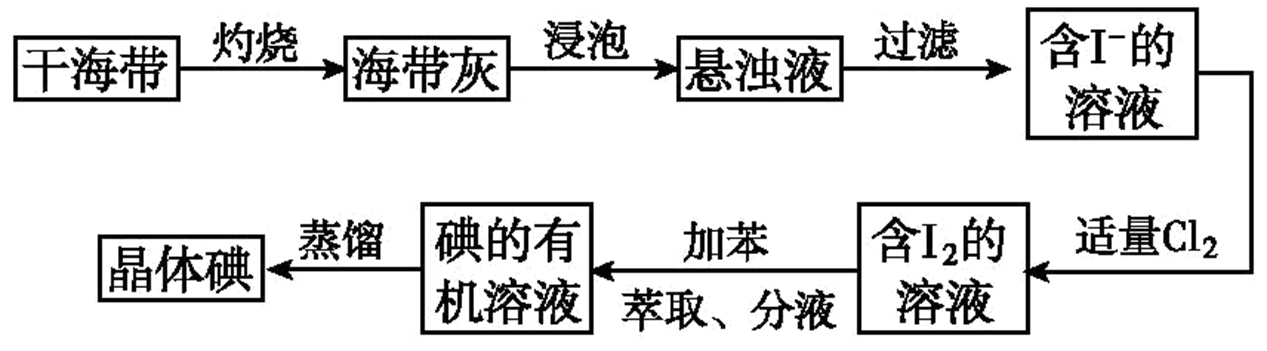
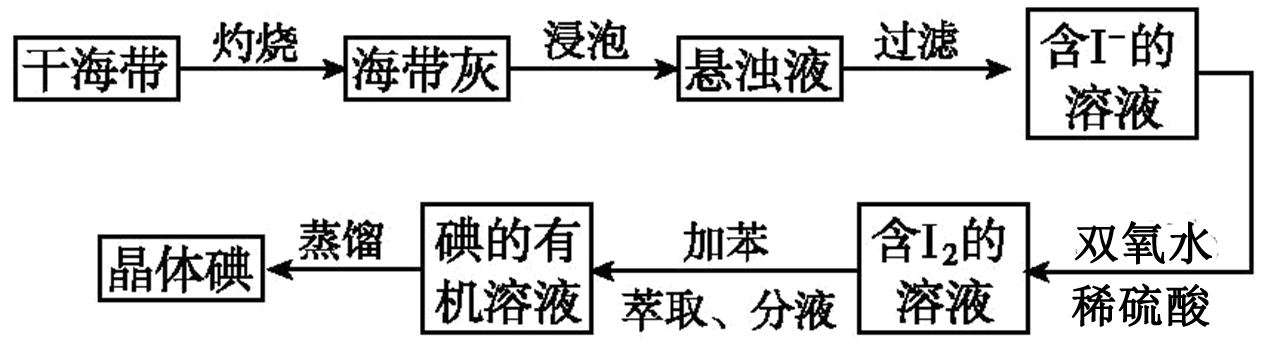
更新、勘误
新增实验“干燥”条目；对海水提碘勘误补充

Changed region(s): [[0.8311, 0.5983, 0.985, 0.7692], [0.8311, 0.7977, 0.9542, 0.9402]]

diff --git a/07 化学实验/01 实验仪器.md b/07 化学实验/01 实验仪器.md
@@ -88,4 +88,21 @@ description: "介绍化学实验中的加热仪器如酒精灯、石棉网，以
 |   图片   | <img alt="烧杯" src="./images/7.7.png"/> | <img alt="锥形瓶" src="./images/7.8.png"/> | <img alt="圆底烧瓶" src="./images/7.9.png"/> | <img alt="蒸馏烧瓶" src="./images/7.10.png"/> | <img alt="三颈烧瓶" src="./images/7.11.png"/> |
 |   特点   |                   敞口                   |                  管口较小                  |                   有支管口                   |                    “三颈”                     |                   管口较小                    |
 
-注意：加热时需要垫石棉网，液体体积范围为容积的 $[\frac{1}{3},\frac{2}{3}]$
+注意：加热时需要垫石棉/陶土网，液体体积范围为容积的 $[\frac{1}{3},\frac{2}{3}]$
+
+## 干燥用仪器（附干燥剂）
+**干燥的目的：制备纯净干燥产物；提供无水环境，避免反应物/生成物/催化剂反应（如水解），影响实验**
+| 相关仪器 | 适用干燥剂|注意事项|
+|-----|-----|-----|
+| **球形干燥管**| 无水氯化钙（固体颗粒）、碱石灰（固体颗粒）、硅胶、P₂O₅ | 干燥剂应为颗粒状，避免使用粉末 |
+| **U型干燥管**| 无水氯化钙、碱石灰等固体干燥剂 | 
+| **洗气瓶** | 浓硫酸| 	气体“长管进、短管出”
+
+| 干燥剂             | 适用气体（举例）                        | 不适用气体（举例）                | 备注                     |
+|--------------------|---------------------------------------|---------------------------------|--------------------------|
+| **浓硫酸**         | H₂、O₂、CO₂、Cl₂、SO₂（酸性/中性气体）  | NH₃、H₂S、HI、HBr（碱性/还原性） | 强氧化性、酸性            |
+| **无水氯化钙**     | 多数气体（H₂、O₂、CO₂、Cl₂等）          | NH₃（会形成配合物）               | 中性，价格便宜，常用       |
+| **碱石灰**         | NH₃、中性气体（如H₂、O₂）               | CO₂、SO₂、Cl₂（酸性气体）         | 碱性，常用于干燥氨气       |
+| **硅胶**           | 多数气体，常用于干燥器保存试剂            | 无特殊限制（物理吸附）             | 可变色指示，可再生        |
+| **五氧化二磷**     | 酸性、中性气体（干燥效率极高）            | 碱性气体                         | 易潮解，操作较麻烦        |
+| **氧化钙**         | NH₃、中性气体                          | 酸性气体                         | 碱性，常用于制取干燥氨气   |

diff --git a/06 元素及其化合物/06 氯与卤族元素.md b/06 元素及其化合物/06 氯与卤族元素.md
@@ -277,3 +277,8 @@ description: "介绍氯气的物理和化学性质、与氢气、金属、水的
 4. 海水提碘
    
    <img src="./images/6.3.png" style="zoom:25%;"/>
+
+**注意事项：**
+①双氧水（稀硫酸用于酸化）**不可用**氯气代替：氯气会进一步氧化$\ce{I_2}$为$\ce{IO^-_3}$等
+②海带灰中**硫酸盐、碳酸盐**等杂质在**萃取分液**时实现与$\ce{I_2}$分离
+③萃取时上层液应无色；若仍显浅黄色，则可能是**萃取不完全或$\ce{H2O2}$偏少（$\ce{I2}$转化成了$\ce{I^-_3}$)**
